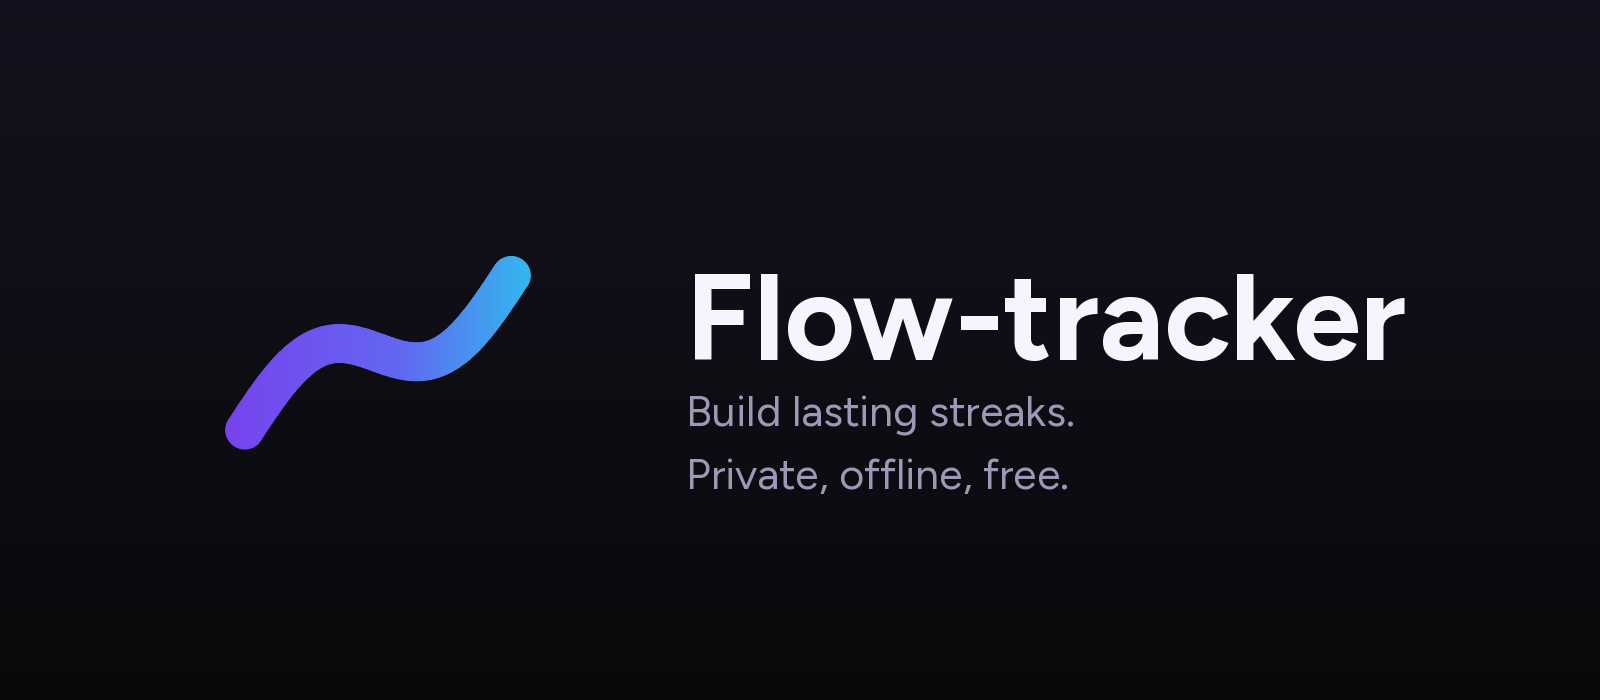
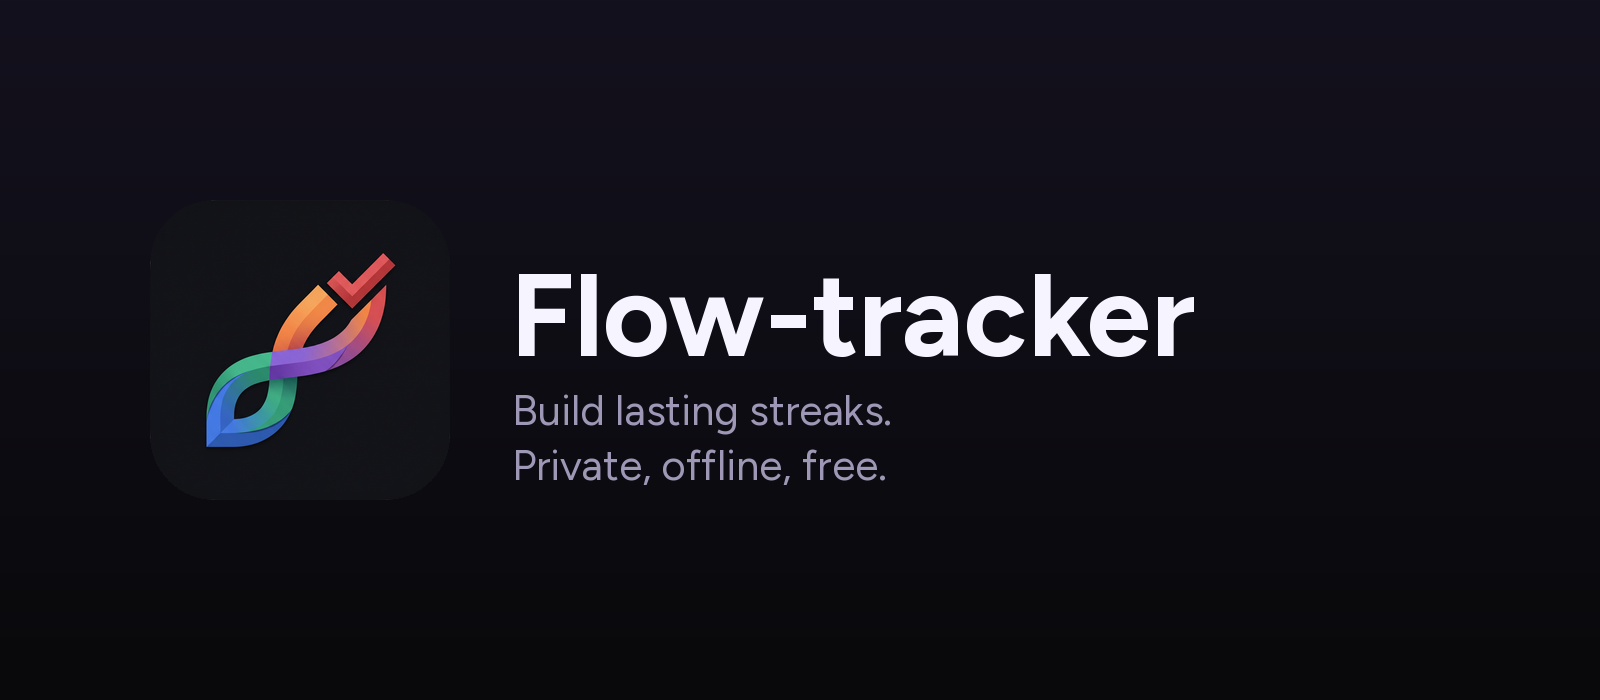
Clean up leftover upstream paths and widget fallback strings

Changed region(s): [[0.125, 0.36, 0.875, 0.66], [0.3125, 0.57, 0.6875, 0.72]]

diff --git a/CHANGELOG.md b/CHANGELOG.md
@@ -3,6 +3,26 @@
 All notable changes to Flow-tracker are recorded here. Versions follow
 [Semantic Versioning](https://semver.org/), and each release is tagged `vX.Y.Z`.
 
+## 1.2.0 — new app icon
+
+### Changed
+
+- New Flow-tracker logo: a woven ribbon that runs from blue through green and
+  violet into orange and red, finished with a check mark. It replaces the
+  earlier placeholder mark everywhere it appears — launcher icon, adaptive and
+  monochrome icon, splash screen, the About screen, share cards, the README
+  banner and the social preview.
+- The launcher icon now ships as a full-bleed dark tile (#0D0D0D) matching the
+  splash background, so the app has no white flash between tapping the icon and
+  the first frame.
+
+### Notes
+
+- The artwork was supplied as a single 2048 px PNG with a white surround; the
+  white was keyed out, the tile was cropped to its rounded square and the mark
+  was lifted onto transparency for the adaptive foreground. No other part of the
+  interface changed.
+
 ## 1.1.0 — colour customisation
 
 ### Added
